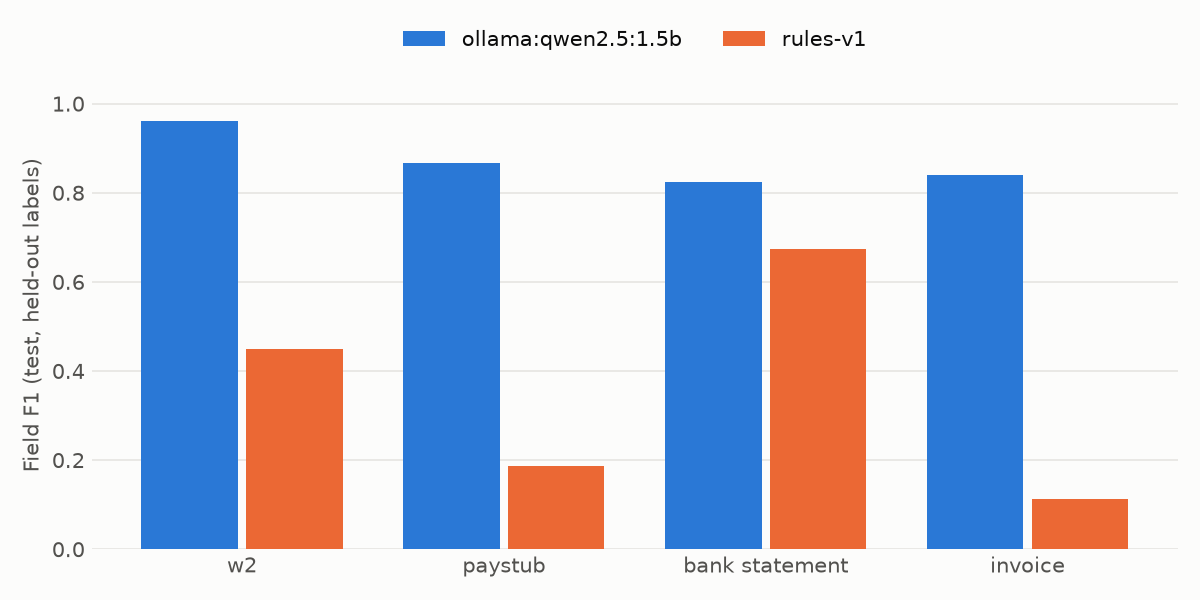
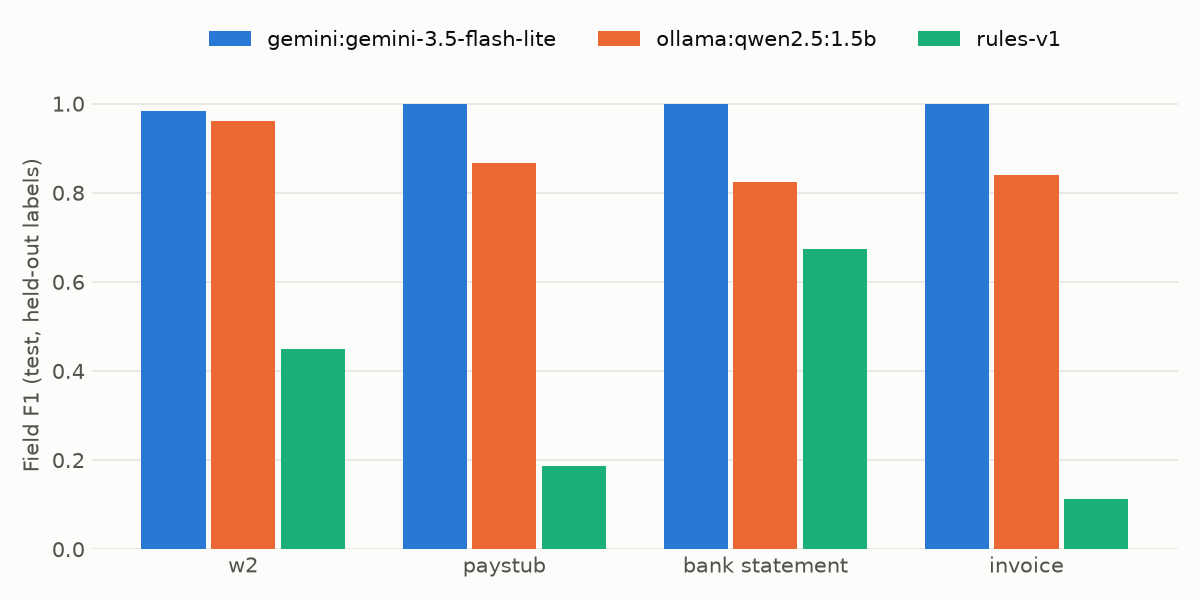
Model race: Gemini 3.5 Flash Lite (F1 0.995), resilient API client
- Per-provider RPM pacing, jittered backoff on 429/5xx/timeouts
- A failed document scores as missed and is reported, not fatal
- Leaderboard shows failed docs; race.sh uses free-tier-viable models

diff --git a/docintel/extract/llm.py b/docintel/extract/llm.py
@@ -15,7 +15,9 @@ from __future__ import annotations
 
 import json
 import os
+import random
 import re
+import time
 from typing import Any
 
 import httpx
@@ -32,6 +34,11 @@ Text spans, one per line as `[id] text`:
 Return JSON mapping each field to {{"value": string|number|null, "confidence": 0-1, "span": id|null}}.
 Copy values exactly as printed (keep names and dates as written; numbers without $ or commas).
 Use null when a field is absent. Fields: {fields}"""
+
+MAX_ATTEMPTS = 7  # ~2 min of backoff in total
+RETRY_STATUS = {429, 500, 502, 503, 504}
+# Client-side pacing to stay inside free-tier requests-per-minute (override: <PROVIDER>_RPM).
+DEFAULT_RPM = {"gemini": 5, "groq": 25}
 
 PROVIDERS = {
     "gateway": (os.getenv("GATEWAY_URL", "http://localhost:8000/v1"), "GATEWAY_API_KEY"),
@@ -95,20 +102,37 @@ class OpenAICompatExtractor(LLMExtractor):
             raise RuntimeError(f"{key_env} is not set")
         self.model, self.timeout = model, timeout
         self.name = f"{provider}:{model}"
+        rpm = float(os.getenv(f"{provider.upper()}_RPM", DEFAULT_RPM.get(provider, 0)))
+        self.min_interval = 60.0 / rpm if rpm > 0 else 0.0
+        self._last_call = 0.0
+
+    def _pace(self) -> None:
+        wait = self._last_call + self.min_interval - time.monotonic()
+        if wait > 0:
+            time.sleep(wait)
+        self._last_call = time.monotonic()
 
     def _chat(self, system: str, user: str) -> str:
-        for attempt in range(4):  # free tiers rate-limit; back off on 429/5xx
-            r = httpx.post(f"{self.base_url}/chat/completions", timeout=self.timeout,
-                           headers={"Authorization": f"Bearer {self.api_key}"},
-                           json={"model": self.model, "temperature": 0,
-                                 "response_format": {"type": "json_object"},
-                                 "messages": [{"role": "system", "content": system},
-                                              {"role": "user", "content": user}]})
-            if r.status_code in (429, 500, 502, 503) and attempt < 3:
-                import time
-                time.sleep(float(r.headers.get("retry-after", 2 ** (attempt + 1))))
+        for attempt in range(MAX_ATTEMPTS):  # free tiers rate-limit and overload; back off with jitter
+            self._pace()
+            try:
+                r = httpx.post(f"{self.base_url}/chat/completions", timeout=self.timeout,
+                               headers={"Authorization": f"Bearer {self.api_key}"},
+                               json={"model": self.model, "temperature": 0,
+                                     "response_format": {"type": "json_object"},
+                                     "messages": [{"role": "system", "content": system},
+                                                  {"role": "user", "content": user}]})
+            except httpx.TransportError as e:
+                if attempt == MAX_ATTEMPTS - 1:
+                    raise RuntimeError(f"{self.name} transport error: {e}") from None
+                time.sleep(min(60, 2 ** (attempt + 1)) * random.uniform(0.8, 1.2))
                 continue
-            r.raise_for_status()
+            if r.status_code in RETRY_STATUS and attempt < MAX_ATTEMPTS - 1:
+                wait = r.headers.get("retry-after")
+                time.sleep(float(wait) if wait else min(60, 2 ** (attempt + 1)) * random.uniform(0.8, 1.2))
+                continue
+            if r.is_error:  # plain exception: httpx errors don't pickle across worker processes
+                raise RuntimeError(f"{self.name} HTTP {r.status_code}: {r.text[:300]}")
             body = r.json()
             u = body.get("usage") or {}
             self.last_usage = {"input": u.get("prompt_tokens", 0), "output": u.get("completion_tokens", 0)}

diff --git a/scripts/evaluate.py b/scripts/evaluate.py
@@ -4,7 +4,7 @@ latency, throughput, and cross-document detection rate.
 
     python scripts/evaluate.py                                    # rules baseline
     python scripts/evaluate.py --extractor hf:Qwen/Qwen2.5-1.5B-Instruct --workers 1
-    python scripts/evaluate.py --extractor gemini:gemini-2.5-flash  # needs GEMINI_API_KEY
+    python scripts/evaluate.py --extractor gemini:gemini-3.8-flash  # needs GEMINI_API_KEY
 """
 import argparse
 import json
@@ -25,8 +25,11 @@ from docintel.validators import validate_case
 def run_one(args: tuple[str, str, str | None]) -> dict:
     data, doc_id, spec = args
     gt = json.loads((Path(data) / "docs" / f"{doc_id}.json").read_text())
-    res = process(Path(data) / "docs" / gt["file"], make_extractor(spec))
-    return {"gt": gt, "doc_type": res.doc_type.value, "latency_ms": res.latency_ms, "model": res.model,
+    try:
+        res = process(Path(data) / "docs" / gt["file"], make_extractor(spec))
+    except Exception as e:  # noqa: BLE001 - a failed doc scores as all-missed and is reported, not fatal
+        return {"gt": gt, "error": str(e)[:300]}
+    return {"error": None, "gt": gt, "doc_type": res.doc_type.value, "latency_ms": res.latency_ms, "model": res.model,
             "pred": {k: f.value for k, f in res.fields.items()},
             "fields": {k: f.model_dump() for k, f in res.fields.items()}, "routing": route(res), "tokens": res.tokens}
 
@@ -58,9 +61,17 @@ def main() -> None:
     latency: dict[str, list[float]] = defaultdict(list)
     type_ok = review = total = 0
     case_docs: dict[str, dict] = defaultdict(dict)
+    ok = [r for r in rows if not r["error"]]
+    errors = [{"doc_id": r["gt"]["doc_id"], "error": r["error"]} for r in rows if r["error"]]
     for r in rows:
         gt = r["gt"]
         gold = {k: f["value"] for k, f in gt["fields"].items()}
+        if r["error"]:
+            by_type.add(gt["doc_type"], {}, gold)
+            by_modality.add(gt["modality"], {}, gold)
+            review += len(gold)
+            total += len(gold)
+            continue
         by_type.add(gt["doc_type"], r["pred"], gold)
         by_modality.add(gt["modality"], r["pred"], gold)
         latency[gt["modality"]].append(r["latency_ms"])
@@ -78,11 +89,12 @@ def main() -> None:
         pos, neg = pos + bad, neg + (not bad)
         tp, fp = tp + (flagged and bad), fp + (flagged and not bad)
 
-    all_lat = [x for v in latency.values() for x in v]
-    tok_in = sum(r["tokens"].get("input", 0) for r in rows) / max(len(rows), 1)
-    tok_out = sum(r["tokens"].get("output", 0) for r in rows) / max(len(rows), 1)
+    all_lat = [x for v in latency.values() for x in v] or [0.0]
+    tok_in = sum(r["tokens"].get("input", 0) for r in ok) / max(len(ok), 1)
+    tok_out = sum(r["tokens"].get("output", 0) for r in ok) / max(len(ok), 1)
     report = {
-        "model": rows[0]["model"] if rows else None, "split": a.split, "documents": len(ids),
+        "model": ok[0]["model"] if ok else a.extractor, "split": a.split, "documents": len(ids),
+        "failed_documents": len(errors), "errors": errors[:5],
         "field_scores_by_type": by_type.report(),
         "field_scores_by_modality": by_modality.report(),
         "classification_accuracy": round(type_ok / len(ids), 4),
@@ -100,6 +112,8 @@ def main() -> None:
     name = (report["model"] or "none").replace(":", "_")
     (Path(a.out) / f"eval_{name}_{a.split}.json").write_text(json.dumps(report, indent=2))
     print(json.dumps(report, indent=2))
+    if len(errors) == len(rows):
+        raise SystemExit(f"All {len(rows)} documents failed; first error: {errors[0]['error']}")
 
 
 if __name__ == "__main__":

diff --git a/scripts/leaderboard.py b/scripts/leaderboard.py
@@ -59,8 +59,8 @@ def main() -> None:
     lines = [
         f"# Model race leaderboard ({a.split} split)\n",
         ("| Model | Field F1 | W-2 | Pay stub | Bank | Invoice | Native F1 | Scan F1 | Review rate "
-         "| p95 latency (s) | Tokens in/out per doc | Cost per 1K docs (USD) |"),
-        "|---|---|---|---|---|---|---|---|---|---|---|---|",
+         "| p95 latency (s) | Tokens in/out per doc | Cost per 1K docs (USD) | Failed docs |"),
+        "|---|---|---|---|---|---|---|---|---|---|---|---|---|",
     ]
     for r in rows:
         bt, bm = r["field_scores_by_type"], r["field_scores_by_modality"]
@@ -69,7 +69,7 @@ def main() -> None:
             r["model"], fmt(overall_f1(r)), *(fmt(bt.get(t, {}).get("f1")) for t in TYPES),
             fmt(bm.get("native", {}).get("f1")), fmt(bm.get("scan", {}).get("f1")), fmt(r["review_rate"]),
             fmt(r["p95_latency_ms"] / 1000, 1), f"{tok.get('input', 0)}/{tok.get('output', 0)}",
-            fmt(r.get("cost_per_1k_docs_usd"), 2),
+            fmt(r.get("cost_per_1k_docs_usd"), 2), str(r.get("failed_documents", 0)),
         ]) + " |")
     lines.append(f"\n{rows[0]['documents'] if rows else 0} test documents. Latency is wall-clock per document "
                  "on the machine that ran the eval; cost is at paid list prices (free tiers cost $0).")

diff --git a/docintel/eval/prices.py b/docintel/eval/prices.py
@@ -11,7 +11,8 @@ PRICES: dict[str, tuple[float, float] | None] = {
     "rules": (0.0, 0.0),
     "hf": (0.0, 0.0),
     "ollama": (0.0, 0.0),  # local CPU; compute cost is in latency, not tokens
-    "gemini:gemini-2.5-flash": None,
+    "gemini:gemini-3.5-flash-lite": None,
+    "gemini:gemma-4-31b-it": None,
     "groq:llama-3.3-70b-versatile": None,
     "groq:qwen/qwen3-32b": None,
 }

diff --git a/docintel/extract/registry.py b/docintel/extract/registry.py
@@ -1,5 +1,5 @@
 """Build extractors from a spec string, e.g. `rules`, `hf:Qwen/Qwen2.5-1.5B-Instruct`,
-`ollama:qwen2.5:1.5b`, `gemini:gemini-2.5-flash`, `groq:llama-3.3-70b-versatile`, `gateway:auto`."""
+`ollama:qwen2.5:1.5b`, `gemini:gemini-3.8-flash`, `groq:llama-3.3-70b-versatile`, `gateway:auto`."""
 from __future__ import annotations
 
 from functools import lru_cache

diff --git a/README.md b/README.md
@@ -9,7 +9,7 @@ Reads financial documents (W-2s, pay stubs, bank statements, invoices), extracts
 | 0. Setup and data | Synthetic generator, case-grouped frozen splits (hashed test manifest), Docker Compose (API, Redis, Postgres, MLflow), DVC pipeline (remote not yet configured). |
 | 1. Baseline pipeline | Preprocess (native vs scanned, deskew, denoise), PyMuPDF layout + key-value pairing, keyword classifier, rules extractor, LLM extractor via Project 1 gateway, async REST API. |
 | 2. Validation | Field rules (sums, formats) and cross-document case checks with readable reasons. |
-| 3. Model race | Learned doc-type classifier (TF-IDF + logistic regression, DVC stage). Extractors: rules, Qwen2.5-1.5B on CPU via Ollama, Gemini / Groq / gateway adapters (run once keys are set). Leaderboard with F1, latency, tokens and cost. |
+| 3. Model race | Learned doc-type classifier (TF-IDF + logistic regression, DVC stage). Extractors: rules, Qwen2.5-1.5B on CPU via Ollama, Gemini 3.5 Flash Lite (free tier); Groq / gateway adapters ready. Leaderboard with F1, latency, tokens and cost. |
 | 4–7 | Not started. |
 
 ## Quickstart
@@ -18,7 +18,7 @@ Reads financial documents (W-2s, pay stubs, bank statements, invoices), extracts
 pip install -e ".[dev,ocr]"      # plus the Tesseract binary for scans
 python scripts/make_data.py            # 60 cases (W-2 + pay stub + bank) + 60 invoices
 python scripts/evaluate.py             # rules baseline on the frozen test split
-python scripts/evaluate.py --model gemini-2.5-flash   # needs the Project 1 gateway (.env)
+python scripts/evaluate.py --extractor gemini:gemini-3.8-flash   # needs GEMINI_API_KEY in .env
 uvicorn docintel.api.main:app --port 8080
 pytest -q
 ```
@@ -69,13 +69,17 @@ Latency on a 16-thread laptop CPU: native PDF p50 is about 27 ms. A single scan 
 
 | Model | Field F1 | Native | Scan | Doc-type acc. | Cross-doc caught | p50 latency | Tokens in/out | Cost / 1K docs |
 |---|---|---|---|---|---|---|---|---|
-| Qwen2.5-1.5B (Ollama, CPU, zero-shot) | **0.88** | 0.89 | 0.87 | 100% | 2 of 3 | 23 s native, 29 s scan | 312 / 144 | $0 (local) |
+| Gemini 3.5 Flash Lite (free tier, zero-shot) | **0.995** | 1.00 | 0.98 | 100% | 3 of 3 | 16 s native, 21 s scan* | 317 / 341 | n/a (free) |
+| Qwen2.5-1.5B (Ollama, CPU, zero-shot) | 0.88 | 0.89 | 0.87 | 100% | 2 of 3 | 23 s native, 29 s scan | 312 / 144 | $0 (local) |
 | rules-v1 + learned classifier | 0.38 | 0.42 | 0.37 | 100% | 0 of 3 | <0.1 s native, ~2 s scan | – | $0 |
 
 - **Classifier.** The learned classifier fixed document typing (74% to 100% on test) and lifted rules-v1 bank-statement F1 from 0.00 to 0.67.
 - **Small model.** A 1.5B model with no training already beats rules by 50 F1 points on unseen wording. The cost is latency: about 25 s per document on this laptop CPU, with 2 parallel requests.
 - **Review rate.** It is 78% for Qwen, because the model's self-reported confidence is uncalibrated and sits below the 0.85 auto-accept bar. Calibration and per-field thresholds are Phase 5.
-- **API models.** Gemini and Groq are not on the board yet because no free-tier keys are configured. Add `GEMINI_API_KEY` / `GROQ_API_KEY` to `.env`, then run `bash scripts/race.sh`.
+- **Gemini 3.5 Flash Lite** is close to perfect: 0.995 F1, every planted cross-document mismatch caught, and only a 2% review rate because its confidence scores are high. \*Its latency includes waiting for client-side pacing at 12 requests/min, so it overstates model time.
+- **The gap to close in Phase 4:** a hosted model scores 0.995, while the free local 1.5B model scores 0.88. Fine-tuning the small model aims to close most of that gap at $0 per document and with no data leaving the machine.
+- **Free-tier limits** (checked 2026-10-28): Gemini 3.8 Flash allows 20 requests/day, too few for a 50-document run, so the race uses Flash Lite (500/day).
+- **Not on the board yet:** Gemma 4 31B, because the API returned 503 "high demand" on every request during the run. Groq, because no key is configured. Rerun `bash scripts/race.sh` once either is available.
 - **Cost.** API costs show "n/a" until list prices are filled in `docintel/eval/prices.py` for the run date.
 - **Not used:** PyTorch CPU inference. Through `transformers` it ran about 30x slower than llama.cpp on this machine, so `hf:` is reserved for the Kaggle/Colab GPU in Phase 4.
 

diff --git a/reports/leaderboard.md b/reports/leaderboard.md
@@ -1,8 +1,9 @@
 # Model race leaderboard (test split)
 
-| Model | Field F1 | W-2 | Pay stub | Bank | Invoice | Native F1 | Scan F1 | Review rate | p95 latency (s) | Tokens in/out per doc | Cost per 1K docs (USD) |
-|---|---|---|---|---|---|---|---|---|---|---|---|
-| ollama:qwen2.5:1.5b | 0.88 | 0.96 | 0.87 | 0.82 | 0.84 | 0.89 | 0.87 | 0.78 | 34.0 | 312/144 | 0.00 |
-| rules-v1 | 0.38 | 0.45 | 0.19 | 0.67 | 0.11 | 0.42 | 0.37 | 1.00 | 12.7 | 0/0 | 0.00 |
+| Model | Field F1 | W-2 | Pay stub | Bank | Invoice | Native F1 | Scan F1 | Review rate | p95 latency (s) | Tokens in/out per doc | Cost per 1K docs (USD) | Failed docs |
+|---|---|---|---|---|---|---|---|---|---|---|---|---|
+| gemini:gemini-3.5-flash-lite | 1.00 | 0.98 | 1.00 | 1.00 | 1.00 | 1.00 | 0.98 | 0.02 | 26.8 | 317/341 | n/a | 0 |
+| ollama:qwen2.5:1.5b | 0.88 | 0.96 | 0.87 | 0.82 | 0.84 | 0.89 | 0.87 | 0.78 | 34.0 | 312/144 | 0.00 | 0 |
+| rules-v1 | 0.38 | 0.45 | 0.19 | 0.67 | 0.11 | 0.42 | 0.37 | 1.00 | 12.7 | 0/0 | 0.00 | 0 |
 
 50 test documents. Latency is wall-clock per document on the machine that ran the eval; cost is at paid list prices (free tiers cost $0).
